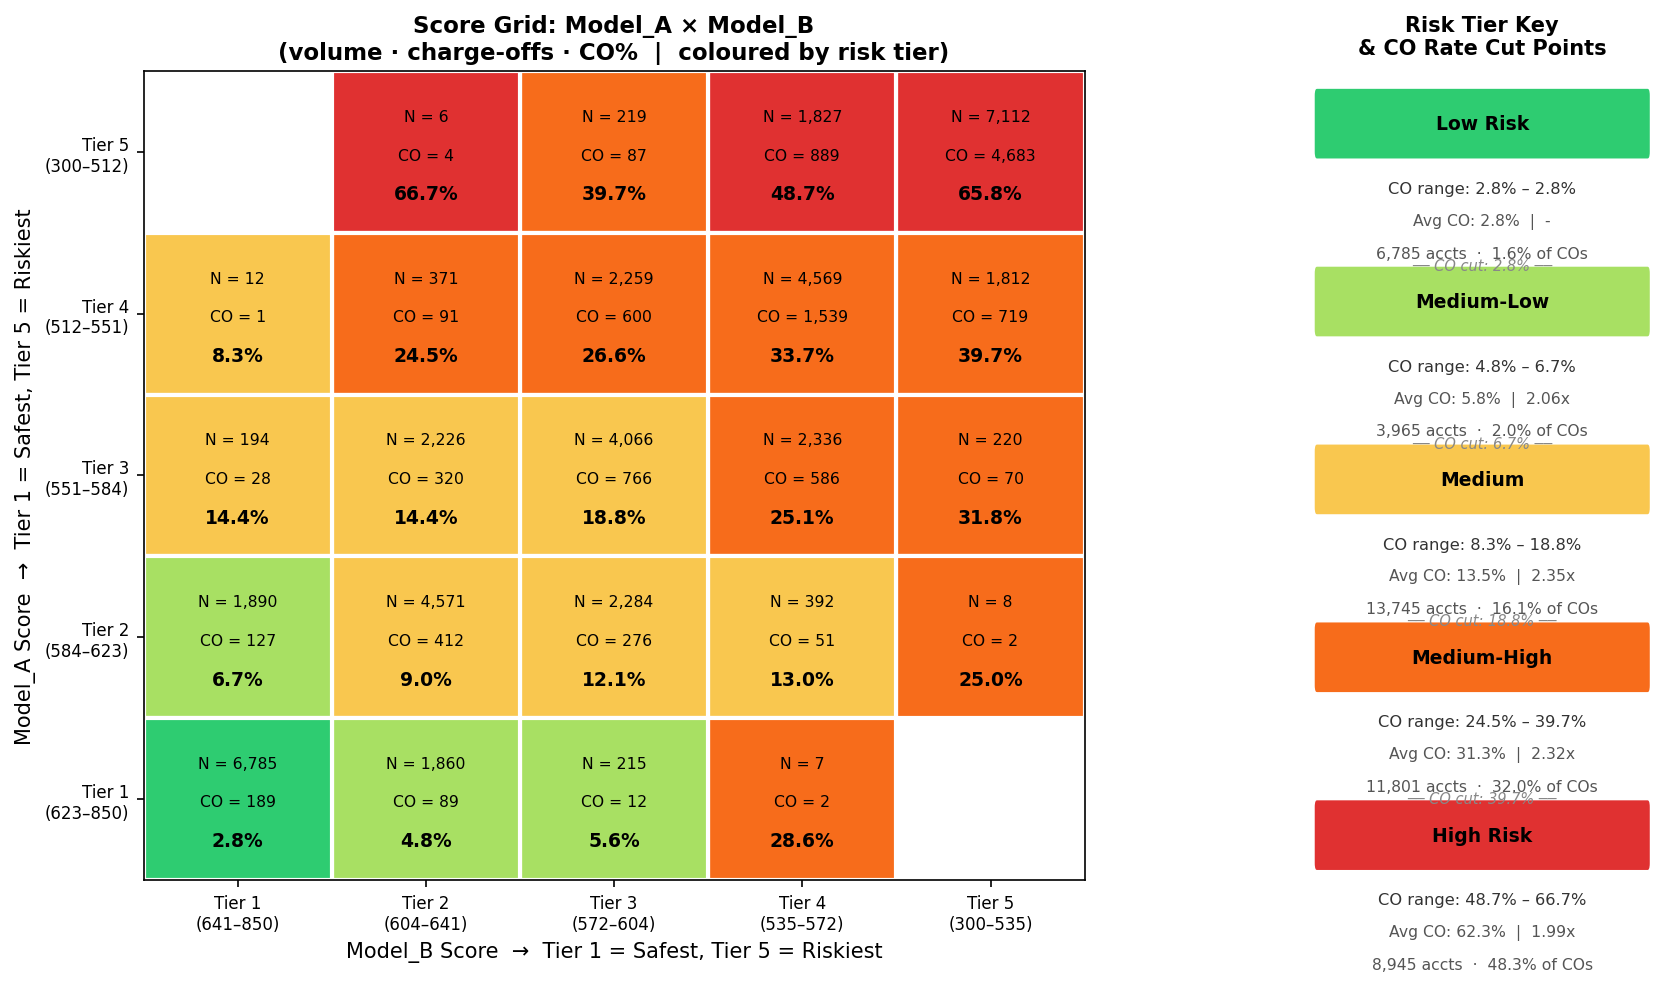
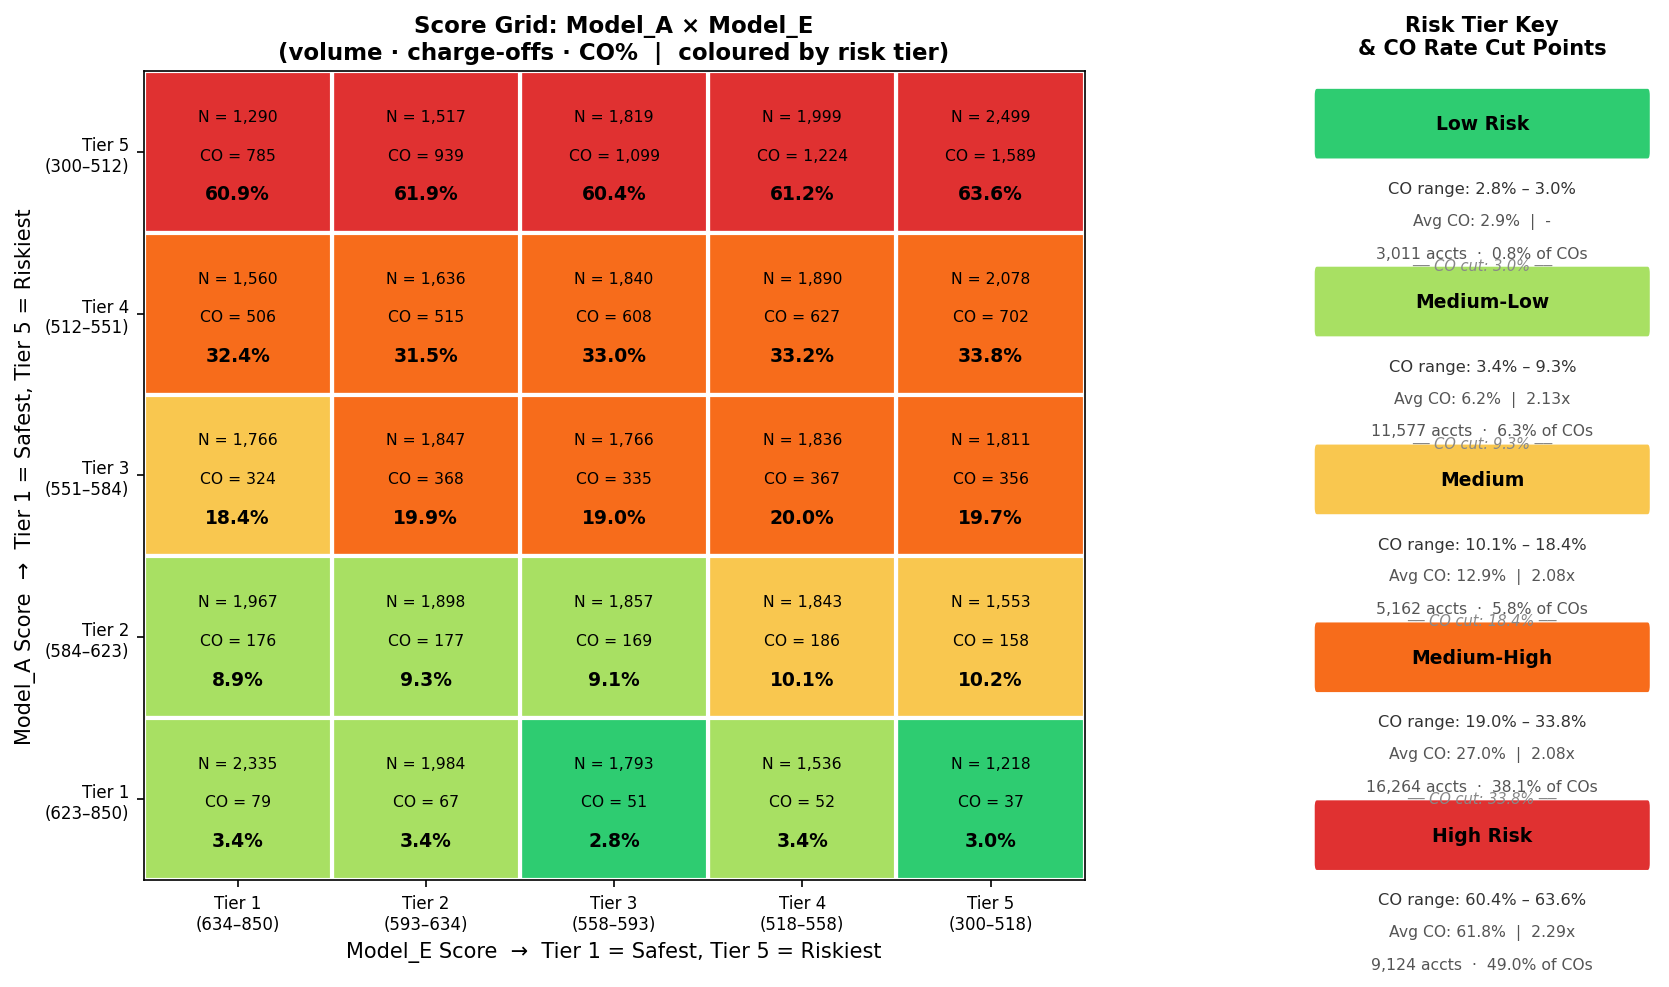
Compute both CMI and JMI per pair; rank by CMI, show JMI as diagnostic
Motivation:
Each metric captures a different dimension:
- CMI = complementarity (new info each model adds beyond the other)
- JMI = total combined power (H(Y) - H(Y|A,B))
Ranking by CMI avoids the JMI dominance bias where a pair with one very
strong and one irrelevant model can outscore a genuinely complementary pair.
Showing JMI alongside lets you see whether a high-CMI pair is also
individually strong, or just complementary-but-weak.

Code changes:
- Restored _h_y_given_a() — needed for symmetric CMI
- Replaced compute_jmi_cv() with compute_pair_metrics_cv():
    computes H(Y), H(Y|A), H(Y|B), H(Y|A,B) in one fold loop
    cmi = (max(0, H(Y|A)-H(Y|AB)) + max(0, H(Y|B)-H(Y|AB))) / 2
    jmi = max(0, H(Y) - H(Y|AB))
- sort_values("CMI_mean") — ranking back to CMI
- plot_pair_table(): 7-col table, CMI cols in dark-blue header, JMI in green
- Output renamed: pair_rankings.csv / pair_table.png

Result (CMI ranking restored):
  #1 Model_A + Model_E  CMI=0.084  JMI=0.170  — complementary
  #10 Model_A + Model_B  CMI=0.016  JMI=0.178  — redundant (high JMI, low CMI)

Docs updated:
- README.md: Step 2 rewritten with dual-metric explanation and summary table
- METHODOLOGY.md: Section 3 expanded with CMI vs JMI rationale, combined
  interpretation matrix (High/Low CMI × High/Low JMI), updated results table

https://claude.ai/code/session_01XEK5QWZTDBNN1oceAYjj4P

diff --git a/credit_risk_simulation.py b/credit_risk_simulation.py
@@ -118,10 +118,19 @@ def plot_lorenz_curves(df: pd.DataFrame) -> None:
 
 
 # ──────────────────────────────────────────────────────────────────────────────
-# 3. JMI FUNCTIONS
-#    Joint Mutual Information  I(Y ; A, B) = H(Y) − H(Y | A, B)
-#    Symmetric by construction — no primary/secondary model ordering.
-#    Rewards pairs where BOTH models are individually strong AND complementary.
+# 3. PAIR METRIC FUNCTIONS
+#    Two complementary metrics computed in a single CV loop:
+#
+#    CMI  (ranking criterion)
+#      Symmetric conditional MI = [I(Y;B|A) + I(Y;A|B)] / 2
+#      = [H(Y|A) + H(Y|B) − 2·H(Y|A,B)] / 2
+#      Measures how much NEW information each model adds beyond the other.
+#      Rewards complementarity; unaffected by individual model dominance.
+#
+#    JMI  (diagnostic — total combined power)
+#      Joint MI = H(Y) − H(Y|A,B)
+#      Measures total combined information the pair carries about charge-off.
+#      Symmetric, but dominated by the stronger individual model in the pair.
 # ──────────────────────────────────────────────────────────────────────────────
 def _h(p: float) -> float:
     if p <= 0.0 or p >= 1.0:
@@ -136,6 +145,13 @@ def _make_cuts(scores, n_bins):
 def _apply_cuts(scores, cuts):
     return np.array(pd.cut(scores, bins=cuts, labels=False), dtype=float)
 
+def _h_y_given_a(y, a_bins):
+    n, h = len(y), 0.0
+    for av in np.unique(a_bins[~np.isnan(a_bins)]):
+        m = a_bins == av
+        h += m.sum() / n * _h(y[m].mean())
+    return h
+
 def _h_y_given_ab(y, a_bins, b_bins):
     n = len(y)
     dt = pd.DataFrame({"y": y, "a": a_bins, "b": b_bins}).dropna()
@@ -144,37 +160,46 @@ def _h_y_given_ab(y, a_bins, b_bins):
         h += len(grp) / n * _h(grp["y"].mean())
     return h
 
-def compute_jmi_cv(df: pd.DataFrame, m1: str, m2: str) -> dict:
-    """I(Y; A, B) = H(Y) - H(Y|A,B) with k-fold CV.  Bins fit on train fold only."""
+def compute_pair_metrics_cv(df: pd.DataFrame, m1: str, m2: str) -> dict:
+    """Compute symmetric CMI and JMI for a model pair via k-fold CV."""
     sub = df[[m1, m2, "charge_off"]].dropna().reset_index(drop=True)
     y, sa, sb = sub["charge_off"].values, sub[m1].values, sub[m2].values
-    kf, vals = KFold(n_splits=N_FOLDS, shuffle=True, random_state=42), []
+    kf = KFold(n_splits=N_FOLDS, shuffle=True, random_state=42)
+    cmi_vals, jmi_vals = [], []
     for tr, te in kf.split(y):
-        ca, cb = _make_cuts(sa[tr], N_BINS), _make_cuts(sb[tr], N_BINS)
-        ab, bb = _apply_cuts(sa[te], ca), _apply_cuts(sb[te], cb)
-        h_y    = _h(y[te].mean())               # H(Y) on test fold
-        h_y_ab = _h_y_given_ab(y[te], ab, bb)   # H(Y|A,B) on test fold
-        vals.append(max(0.0, h_y - h_y_ab))
+        ca, cb  = _make_cuts(sa[tr], N_BINS), _make_cuts(sb[tr], N_BINS)
+        ab, bb  = _apply_cuts(sa[te], ca),    _apply_cuts(sb[te], cb)
+        h_y     = _h(y[te].mean())
+        h_y_a   = _h_y_given_a(y[te], ab)
+        h_y_b   = _h_y_given_a(y[te], bb)
+        h_y_ab  = _h_y_given_ab(y[te], ab, bb)
+        cmi_vals.append((max(0.0, h_y_a - h_y_ab) + max(0.0, h_y_b - h_y_ab)) / 2)
+        jmi_vals.append(max(0.0, h_y - h_y_ab))
     return {
         "Pair":     f"{m1} + {m2}",
         "N_valid":  len(sub),
-        "JMI_mean": round(np.mean(vals), 6),
-        "JMI_std":  round(np.std(vals),  6),
-        "JMI_min":  round(np.min(vals),  6),
+        "CMI_mean": round(np.mean(cmi_vals), 6),
+        "CMI_std":  round(np.std(cmi_vals),  6),
+        "JMI_mean": round(np.mean(jmi_vals), 6),
+        "JMI_std":  round(np.std(jmi_vals),  6),
     }
 
 
 # ──────────────────────────────────────────────────────────────────────────────
-# 4. JMI TABLE  —  matplotlib figure of the ranked pair table
+# 4. PAIR TABLE  —  matplotlib figure showing both CMI and JMI, ranked by CMI
 # ──────────────────────────────────────────────────────────────────────────────
-def plot_jmi_table(jmi_df: pd.DataFrame) -> None:
-    fig, ax = plt.subplots(figsize=(9, 4))
+def plot_pair_table(pair_df: pd.DataFrame) -> None:
+    fig, ax = plt.subplots(figsize=(12, 4))
     ax.axis("off")
 
-    display = jmi_df[["Pair", "N_valid", "JMI_mean", "JMI_std", "JMI_min"]].copy()
-    display.columns = ["Model Pair", "N Valid", "JMI Mean (bits)", "JMI Std", "JMI Min (bits)"]
+    display = pair_df[["Pair", "N_valid", "CMI_mean", "CMI_std", "JMI_mean", "JMI_std"]].copy()
+    display.columns = ["Model Pair", "N Valid",
+                       "CMI Mean (bits)", "CMI Std",
+                       "JMI Mean (bits)", "JMI Std"]
     display["Rank"] = range(1, len(display) + 1)
-    display = display[["Rank", "Model Pair", "N Valid", "JMI Mean (bits)", "JMI Std", "JMI Min (bits)"]]
+    display = display[["Rank", "Model Pair", "N Valid",
+                        "CMI Mean (bits)", "CMI Std",
+                        "JMI Mean (bits)", "JMI Std"]]
 
     tbl = ax.table(
         cellText=display.values,
@@ -183,31 +208,36 @@ def plot_jmi_table(jmi_df: pd.DataFrame) -> None:
         loc="center",
     )
     tbl.auto_set_font_size(False)
-    tbl.set_fontsize(9)
+    tbl.set_fontsize(8.5)
     tbl.scale(1, 1.6)
 
-    # Header styling
-    for j in range(len(display.columns)):
+    n_cols = len(display.columns)
+    for j in range(n_cols):
         tbl[0, j].set_facecolor("#2c3e50")
         tbl[0, j].set_text_props(color="white", fontweight="bold")
 
-    # Highlight best pair (rank 1)
-    for j in range(len(display.columns)):
+    # Shade CMI columns (3,4) and JMI columns (5,6) with distinct header tints
+    for j in (3, 4):
+        tbl[0, j].set_facecolor("#1a5276")   # darker blue for CMI header
+    for j in (5, 6):
+        tbl[0, j].set_facecolor("#145a32")   # dark green for JMI header
+
+    for j in range(n_cols):
         tbl[1, j].set_facecolor("#d5f5e3")
         tbl[1, j].set_text_props(fontweight="bold")
 
-    # Alternating row shading
     for i in range(2, len(display) + 1):
         clr = "#f8f9fa" if i % 2 == 0 else "white"
-        for j in range(len(display.columns)):
+        for j in range(n_cols):
             tbl[i, j].set_facecolor(clr)
 
-    ax.set_title("JMI Pair Ranking  (5-fold CV · Symmetric · sorted by JMI Mean)",
-                 fontsize=11, fontweight="bold", pad=12)
+    ax.set_title(
+        "Pair Ranking  (5-fold CV · ranked by CMI  |  JMI shown for reference)",
+        fontsize=11, fontweight="bold", pad=12)
     plt.tight_layout()
-    plt.savefig("jmi_table.png", bbox_inches="tight")
+    plt.savefig("pair_table.png", bbox_inches="tight")
     plt.close()
-    print("    Saved: jmi_table.png")
+    print("    Saved: pair_table.png")
 
 
 # ──────────────────────────────────────────────────────────────────────────────
@@ -467,23 +497,23 @@ def main():
     print("\n[2] Lorenz Curves")
     plot_lorenz_curves(df)
 
-    # ── JMI pair selection ────────────────────────────────────────────────────
-    print(f"\n[3] JMI Pair Selection ({N_FOLDS}-fold CV)")
+    # ── pair selection: CMI + JMI ─────────────────────────────────────────────
+    print(f"\n[3] Pair Selection — CMI & JMI ({N_FOLDS}-fold CV, ranked by CMI)")
     print("-" * 70)
-    jmi_rows = [compute_jmi_cv(df, m1, m2) for m1, m2 in combinations(MODELS, 2)]
-    jmi_df   = (pd.DataFrame(jmi_rows)
-                  .sort_values("JMI_mean", ascending=False)
-                  .reset_index(drop=True))
+    pair_rows = [compute_pair_metrics_cv(df, m1, m2) for m1, m2 in combinations(MODELS, 2)]
+    pair_df   = (pd.DataFrame(pair_rows)
+                   .sort_values("CMI_mean", ascending=False)
+                   .reset_index(drop=True))
 
-    print(jmi_df.to_string(index=False))
-    jmi_df.to_csv("pair_jmi_rankings.csv", index=False)
-    plot_jmi_table(jmi_df)
+    print(pair_df.to_string(index=False))
+    pair_df.to_csv("pair_rankings.csv", index=False)
+    plot_pair_table(pair_df)
 
-    best    = jmi_df.iloc[0]
+    best    = pair_df.iloc[0]
     best_m1, best_m2 = [m.strip() for m in best["Pair"].split("+")]
     print(f"\n  ★  Best pair : {best['Pair']}")
-    print(f"     JMI mean   = {best['JMI_mean']:.6f} bits")
-    print(f"     JMI min    = {best['JMI_min']:.6f} bits")
+    print(f"     CMI mean   = {best['CMI_mean']:.6f} bits  (ranking criterion — complementarity)")
+    print(f"     JMI mean   = {best['JMI_mean']:.6f} bits  (total combined information)")
 
     # ── score grid ────────────────────────────────────────────────────────────
     print(f"\n[4] Building 5×5 Score Grid — {best['Pair']}")
@@ -526,8 +556,8 @@ def main():
 
     # ── output summary ─────────────────────────────────────────────────────────
     print("\n[7] Files written:")
-    for f in ["lorenz_curves.png", "jmi_table.png",
-              "pair_jmi_rankings.csv", "score_grid_raw.csv",
+    for f in ["lorenz_curves.png", "pair_table.png",
+              "pair_rankings.csv", "score_grid_raw.csv",
               "score_grid_tiered.csv", "risk_tier_summary.csv",
               "score_grid_chart.png"]:
         print(f"    {f}")
@@ -536,8 +566,8 @@ def main():
     print("  DONE")
     print(sep)
 
-    return df, jmi_df, grid_tiered, summary
+    return df, pair_df, grid_tiered, summary
 
 
 if __name__ == "__main__":
-    df, jmi_df, grid_tiered, summary = main()
+    df, pair_df, grid_tiered, summary = main()

diff --git a/METHODOLOGY.md b/METHODOLOGY.md
@@ -61,7 +61,7 @@ The area under the CAP/Lorenz curve (`AUC_lorenz`) and the ROC AUC are different
 
 ---
 
-## 3. Pair Selection — Conditional Mutual Information (CMI)
+## 3. Pair Selection — CMI (ranking) + JMI (diagnostic)
 
 ### Why Not Logistic Regression Blending?
 The v1 approach combined each pair with logistic regression and measured the blended AUC. This has three problems:
@@ -69,17 +69,37 @@ The v1 approach combined each pair with logistic regression and measured the ble
 2. **In-sample bias:** The LR is evaluated on the same data it was trained on, inflating AUC.
 3. **Linear assumption:** LR only captures the linear portion of each model's incremental signal.
 
-### CMI Definition
+### Two Metrics, One CV Loop
 
+Both CMI and JMI are computed in the same cross-validation loop, sharing the same bin fitting and test-fold evaluation.
+
+#### CMI — Ranking Criterion
 ```
-I(Y ; B | A) = H(Y | A) − H(Y | A, B)
+CMI  =  [ I(Y;B|A)  +  I(Y;A|B) ] / 2
+      =  [ H(Y|A) − H(Y|A,B)  +  H(Y|B) − H(Y|A,B) ] / 2
 ```
 
-- `H(Y | A)`: entropy of charge-off within each bin of Model A — how uncertain we still are about charge-off after knowing A's score
-- `H(Y | A, B)`: entropy of charge-off within each (A-bin, B-bin) cell — residual uncertainty after knowing both scores
-- The difference is the information B adds beyond A
+Measures how much **new information** each model adds beyond the other. Symmetric — neither model is treated as primary.
 
-**Symmetric version:** `CMI = [ I(Y;B|A) + I(Y;A|B) ] / 2` so neither model is treated as primary. This matters when the two models have different score distributions.
+**Why CMI for ranking:** It is unaffected by individual model dominance. A pair where one model is very strong and the other is irrelevant will score near zero on CMI, because the irrelevant model adds nothing beyond what the strong model already knows. Pairs of two genuinely complementary models score high regardless of their individual strength.
+
+#### JMI — Diagnostic Reference
+```
+JMI  =  I(Y ; A, B)  =  H(Y) − H(Y | A, B)
+```
+
+Measures the **total combined information** the pair carries about charge-off. Since `H(Y)` is constant across all pairs, ranking by JMI is equivalent to ranking by `−H(Y|A,B)` — the pair that leaves the least residual uncertainty about charge-off.
+
+**Why JMI is shown but not used for ranking:** JMI is dominated by the stronger individual model. A pair where A has Gini=0.85 and B is irrelevant (Gini=0.10, unrelated to A) can outrank a pair of two complementary Gini=0.60 models simply because A's individual power dwarfs any complementarity benefit. JMI reflects total discrimination ceiling; CMI reflects efficient use of two model slots.
+
+**Reading the two metrics together:**
+
+| CMI | JMI | Interpretation |
+|---|---|---|
+| High | High | Both models are strong AND complementary — best case |
+| High | Low  | Complementary but both models are individually weak |
+| Low  | High | Both models are strong but largely redundant |
+| Low  | Low  | Neither model is informative |
 
 ### Discretisation
 Continuous scores are binned into **quintiles (5 bins)** before computing entropy. This is necessary because entropy is defined over discrete distributions.
@@ -90,26 +110,27 @@ Continuous scores are binned into **quintiles (5 bins)** before computing entrop
 - For larger portfolios (500k+), deciles are appropriate.
 
 ### Cross-Validation (5-fold)
-Bin boundaries are **fit on the training fold (80%)** and applied to the **test fold (20%)**. CMI is computed only on the test fold. This prevents in-sample inflation.
+Bin boundaries are **fit on the training fold (80%)** and applied to the **test fold (20%)**. Both CMI and JMI are computed only on the test fold. This prevents in-sample inflation.
 
 The `−inf / +inf` extension on bin edges ensures that test-fold scores outside the training range are always assigned to a valid bin rather than NaN.
 
-**Reported metrics:**
-- `CMI_mean`: average across 5 folds — primary ranking criterion
-- `CMI_std`: fold-to-fold variability — stability check (low std = robust signal)
-- `CMI_min`: worst fold — conservative lower bound for pair quality
+**Reported metrics per pair:**
+- `CMI_mean` / `CMI_std`: average and variability across 5 folds — **primary ranking column**
+- `JMI_mean` / `JMI_std`: total combined information — diagnostic reference column
 
 ### Result Interpretation
-| Pair | CMI (bits) | Interpretation |
-|---|---|---|
-| Model_A + Model_E | 0.084 | E adds unique signal not in A |
-| Model_A + Model_B | 0.016 | B is nearly redundant with A |
+| Pair | CMI (bits) | JMI (bits) | Interpretation |
+|---|---|---|---|
+| Model_A + Model_E | 0.084 | 0.170 | E adds unique signal; A is strong → good combination |
+| Model_A + Model_B | 0.016 | 0.178 | Both strong (high JMI) but largely redundant (low CMI) |
+| Model_D + Model_E | 0.026 | 0.052 | Both weak — low on both metrics |
 
-A and B are both driven by the same strong latent signal — they are highly correlated and one adds little beyond the other. E, despite being near-noise on its own, captures residual variance in Z that A does not, making it a genuinely complementary second model.
+A and B are both driven by the same strong latent signal — highly correlated, so CMI is near zero. E, despite being near-noise on its own (low JMI contribution), captures residual variance in Z that A does not — hence the high CMI.
 
 **Alternatives considered:**
-- **Marginal AUC lift** (AUC of pair minus AUC of primary model alone): converges with CMI when a flexible combiner is used, but depends on the combiner choice and cannot detect non-linear complementarity with a linear combiner.
+- **Marginal AUC lift** (AUC of pair minus AUC of primary model alone): converges with CMI when a flexible combiner is used, but depends on the combiner and assumes one model is fixed as primary.
 - **Score correlation penalty**: simple, penalises correlated pairs, but Pearson/Spearman correlation does not capture non-linear dependence.
+- **Ranking by JMI alone**: would select A+B — both strong, but the two model slots carry overlapping risk signals and one effectively goes to waste.
 - **Concordance/discordance analysis**: diagnostic tool — useful for explaining results to stakeholders after the pair is chosen.
 
 ---

diff --git a/README.md b/README.md
@@ -13,19 +13,22 @@ A synthetic portfolio of **50,000 accounts** with a **~25% charge-off rate**. Fi
 ### Step 1 — Individual Model Benchmarking
 Each model is assessed independently using its **Lorenz curve** and **Gini coefficient** (ROC-based: `2 × AUC − 1`). This establishes a standalone performance baseline but does not determine which pair to use together.
 
-### Step 2 — Pair Selection via Conditional Mutual Information (CMI)
-Rather than combining models with logistic regression and measuring the blended AUC, we measure how much **new information** each candidate second model adds given the first is already known:
+### Step 2 — Pair Selection: CMI ranked, JMI as reference
 
-```
-CMI = [ I(Y ; B | A) + I(Y ; A | B) ] / 2
-    = H(Y|A) − H(Y|A,B)   averaged symmetrically
-```
+Both metrics are computed in a single 5-fold CV loop and reported side-by-side. **Pairs are ranked by CMI.**
 
-CMI is **model-free** — it measures information overlap directly from the data, without assuming a linear or any other functional relationship between the two scores. A pair of individually strong models that carry identical information about charge-off will score near zero; a weaker model that sees different risk signals scores higher.
+| Metric | Formula | Measures |
+|---|---|---|
+| **CMI** *(ranking)* | `[I(Y;B\|A) + I(Y;A\|B)] / 2` | Complementarity — new information each model adds beyond the other |
+| **JMI** *(diagnostic)* | `H(Y) − H(Y\|A,B)` | Total combined information the pair carries about charge-off |
 
-**Cross-validation** (5-fold) ensures CMI is estimated on held-out data — bin boundaries are fit on the training fold and applied to the test fold only.
+**Why rank by CMI?** JMI is dominated by the stronger individual model — a pair where one model is very strong and the other is irrelevant can outscore a pair of two genuinely complementary moderate models. CMI removes this bias by measuring only the *incremental* contribution of each model given the other is already known.
 
-**Winner: Model_A + Model_E** (CMI = 0.084 bits), despite Model_E ranking last individually (Gini = 0.106). Model_A + Model_B, both individually strong, ranked last on CMI (0.016 bits) because they are largely redundant.
+**Why show JMI?** JMI reveals the pair's absolute ceiling of discrimination. A pair with high CMI but low JMI is complementary but both models are weak. High JMI alongside low CMI signals a pair where both models are strong but largely redundant.
+
+**Cross-validation** (5-fold) ensures both metrics are estimated on held-out data — bin boundaries are fit on the training fold and applied to the test fold only.
+
+**Winner: Model_A + Model_E** (CMI = 0.084 bits). Model_A + Model_B ranks last on CMI (0.016 bits) — both are strong individually (high JMI) but largely redundant with each other.
 
 ### Step 3 — Score Grid Construction
 The best pair is used to build a **5 × 5 score grid**: each model score is independently split into five equal-population quintile tiers (Tier 1 = safest/highest score, Tier 5 = riskiest/lowest score), producing 25 cells. Each cell reports account volume, charge-off count, and charge-off rate.
@@ -52,9 +55,9 @@ CO rates are **accounts-weighted averages** across all cells in a tier.
 | File | Description |
 |---|---|
 | `lorenz_curves.png` | Lorenz curves for all 5 models with Gini coefficients |
-| `cmi_table.png` | Ranked CMI table for all 10 model pairs |
+| `pair_table.png` | Pair ranking table — CMI and JMI side-by-side, ranked by CMI |
 | `score_grid_chart.png` | Coloured 5×5 grid with volume, CO count, CO%, tier colours, and CO rate cut points |
-| `pair_cmi_rankings.csv` | Raw CMI scores for all pairs |
+| `pair_rankings.csv` | Raw CMI and JMI scores for all pairs |
 | `score_grid_raw.csv` | 25-cell grid with CO rates |
 | `score_grid_tiered.csv` | Grid with risk tier labels assigned |
 | `risk_tier_summary.csv` | Tier-level summary with CO rates, multipliers, and coverage |
